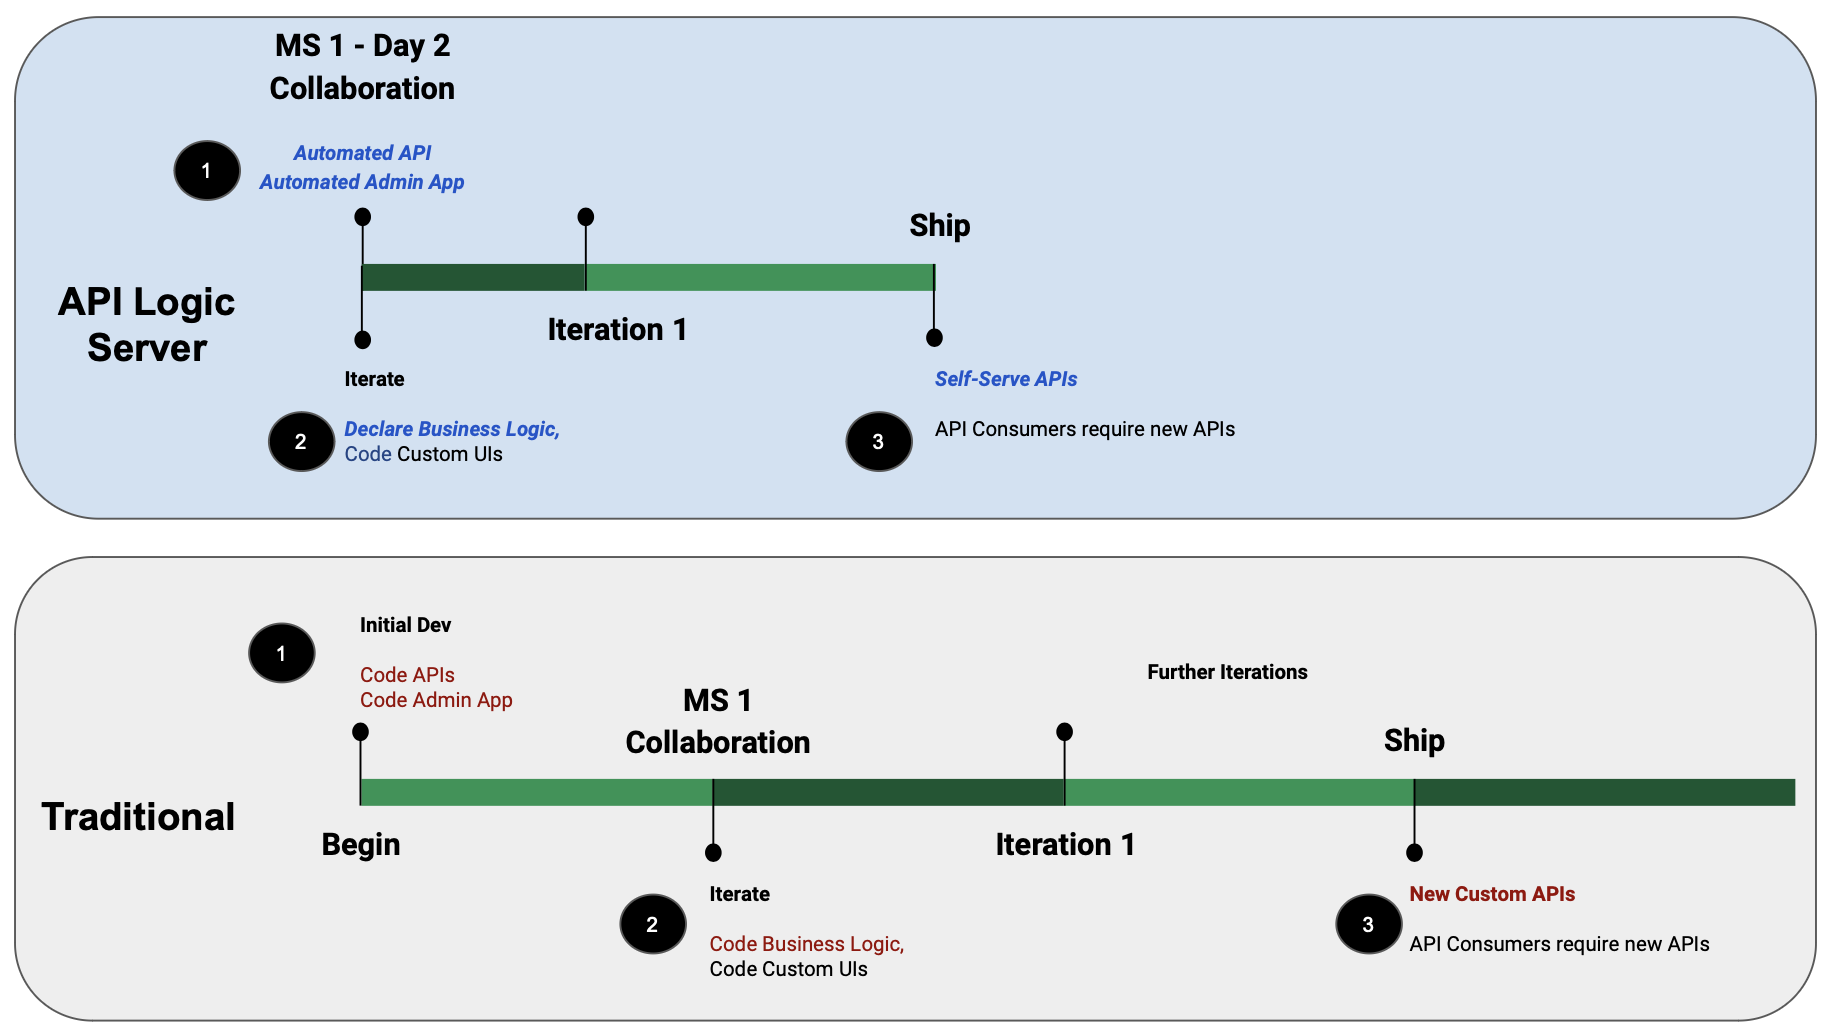
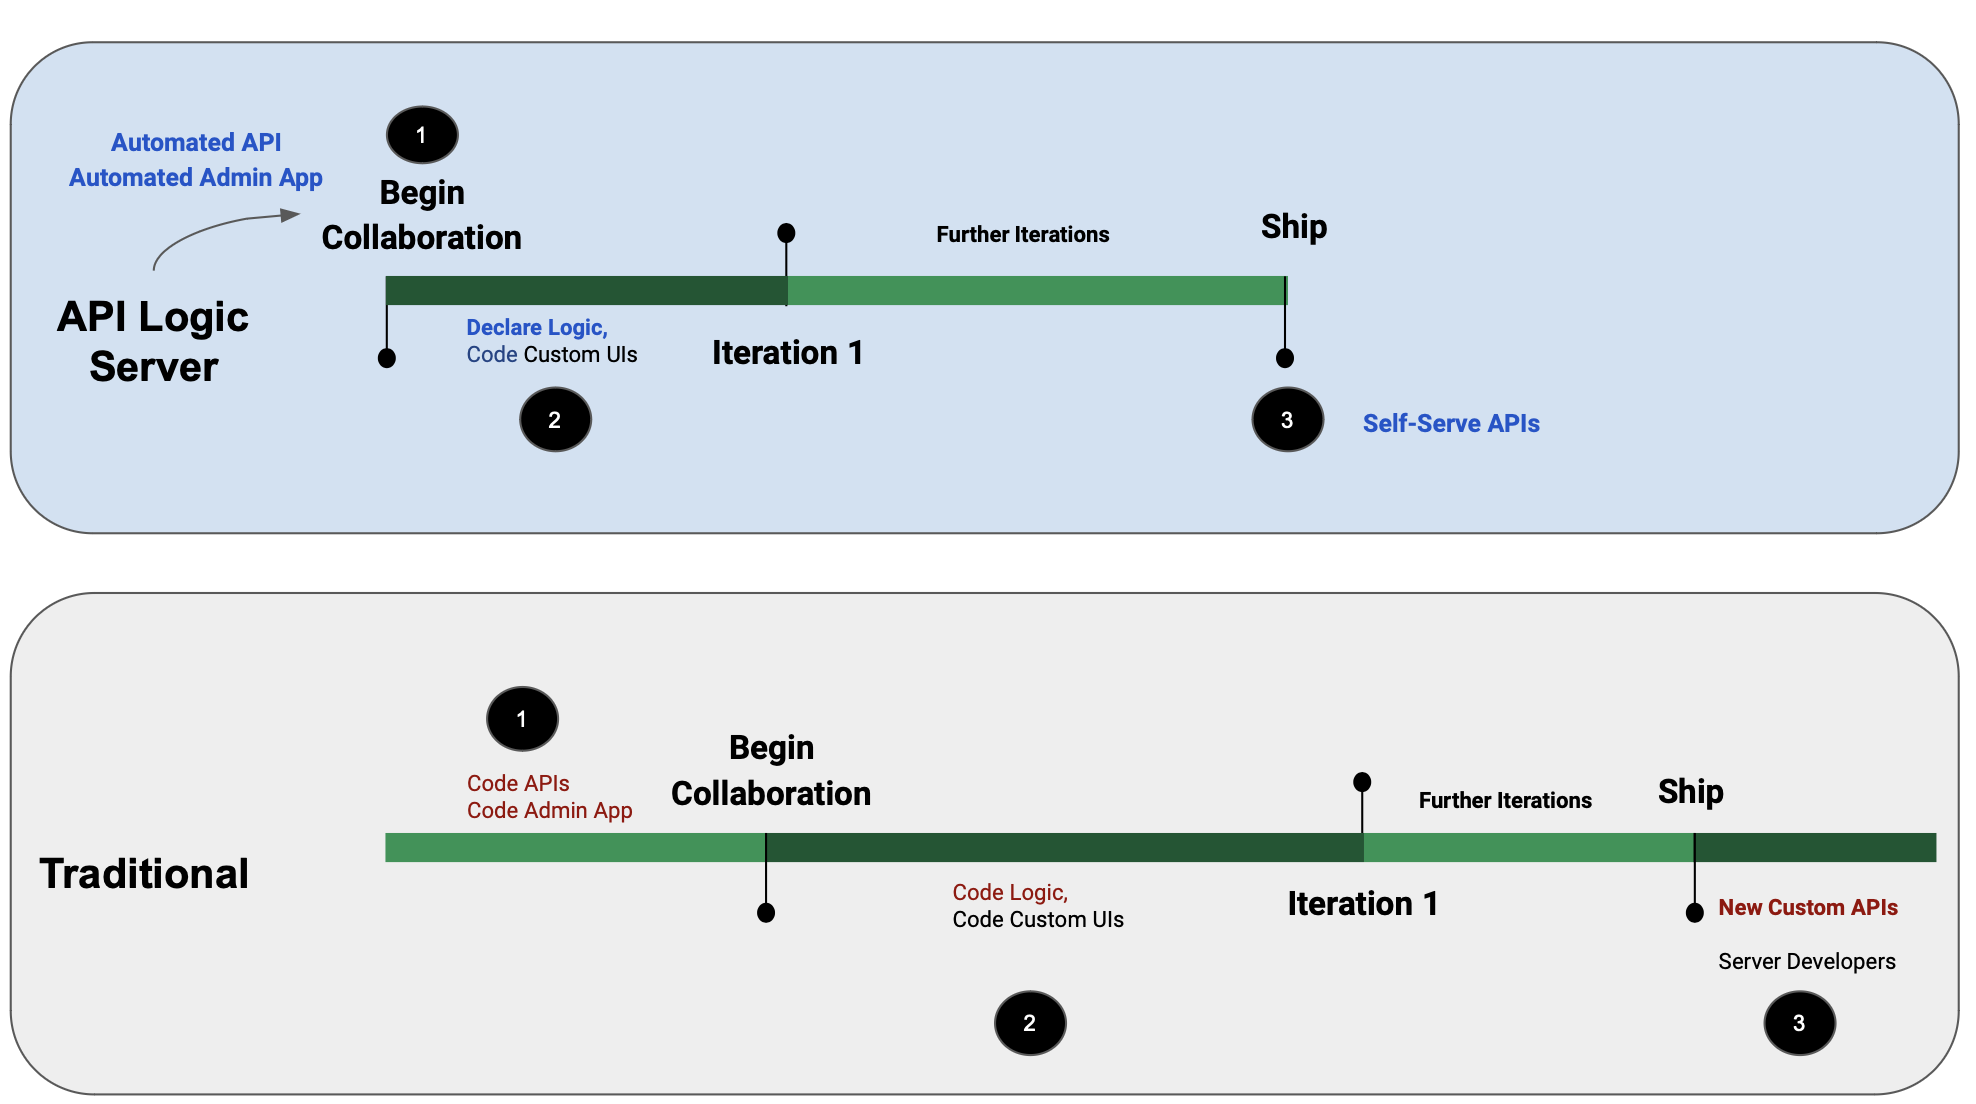
revise why matters diagram

diff --git a/docs/index.md b/docs/index.md
@@ -198,11 +198,13 @@ Click the image below for a video tutorial, showing complete project creation, e
 
 ### Increased Agility and Quality, Reduced Risk
 
+Agile wisely advises getting Working Software as fast as possible, to facilitate Business User Collaboration and Iteration.  This reduces requirements risk - substantial effort wasted in misunderstood requirements.
+
 ![Benefits](images/agile/why-it-matters.png)
 
 1. ***Instant Collaboration:*** with automated creation of an API and an Admin App,  collaboration and UI dev can begin on Day 1.
 
-    * In a traditional approach, **Initial Dev** (APIs, and a basic Admin UI) is required before Collaboration.  This might be weeks or months.
+    * In a traditional approach, **API and UI Dev** is required before Collaboration.  This might be weeks or months.
 
 2. ***Declarative Logic:*** rules are 40X more concise, and automatically ordered and reused.
 
@@ -221,11 +223,9 @@ Finally, ***automation drives quality*** automatic re-use and ordering eliminate
 
 &nbsp;
 
-### Faster, Simpler, Modern Architecture
+### Simpler, Modern Architecture
 
-API Logic Server can dramatically improve web app development:
-
-* Automation makes it __faster:__ what used to require weeks or months is now immediate.  Unblock UI Dev, and engage business users - _early_ - instead of wasting time on a misunderstanding.
+API Logic Server not only increases agility, it can make web app development simpler, and ensure the architectural result:
 
 * Automation makes it __simpler:__ this reduces the risk of architectural errors, e.g., no logic reuse between Apps / Services, APIs without pagination, etc.
 
